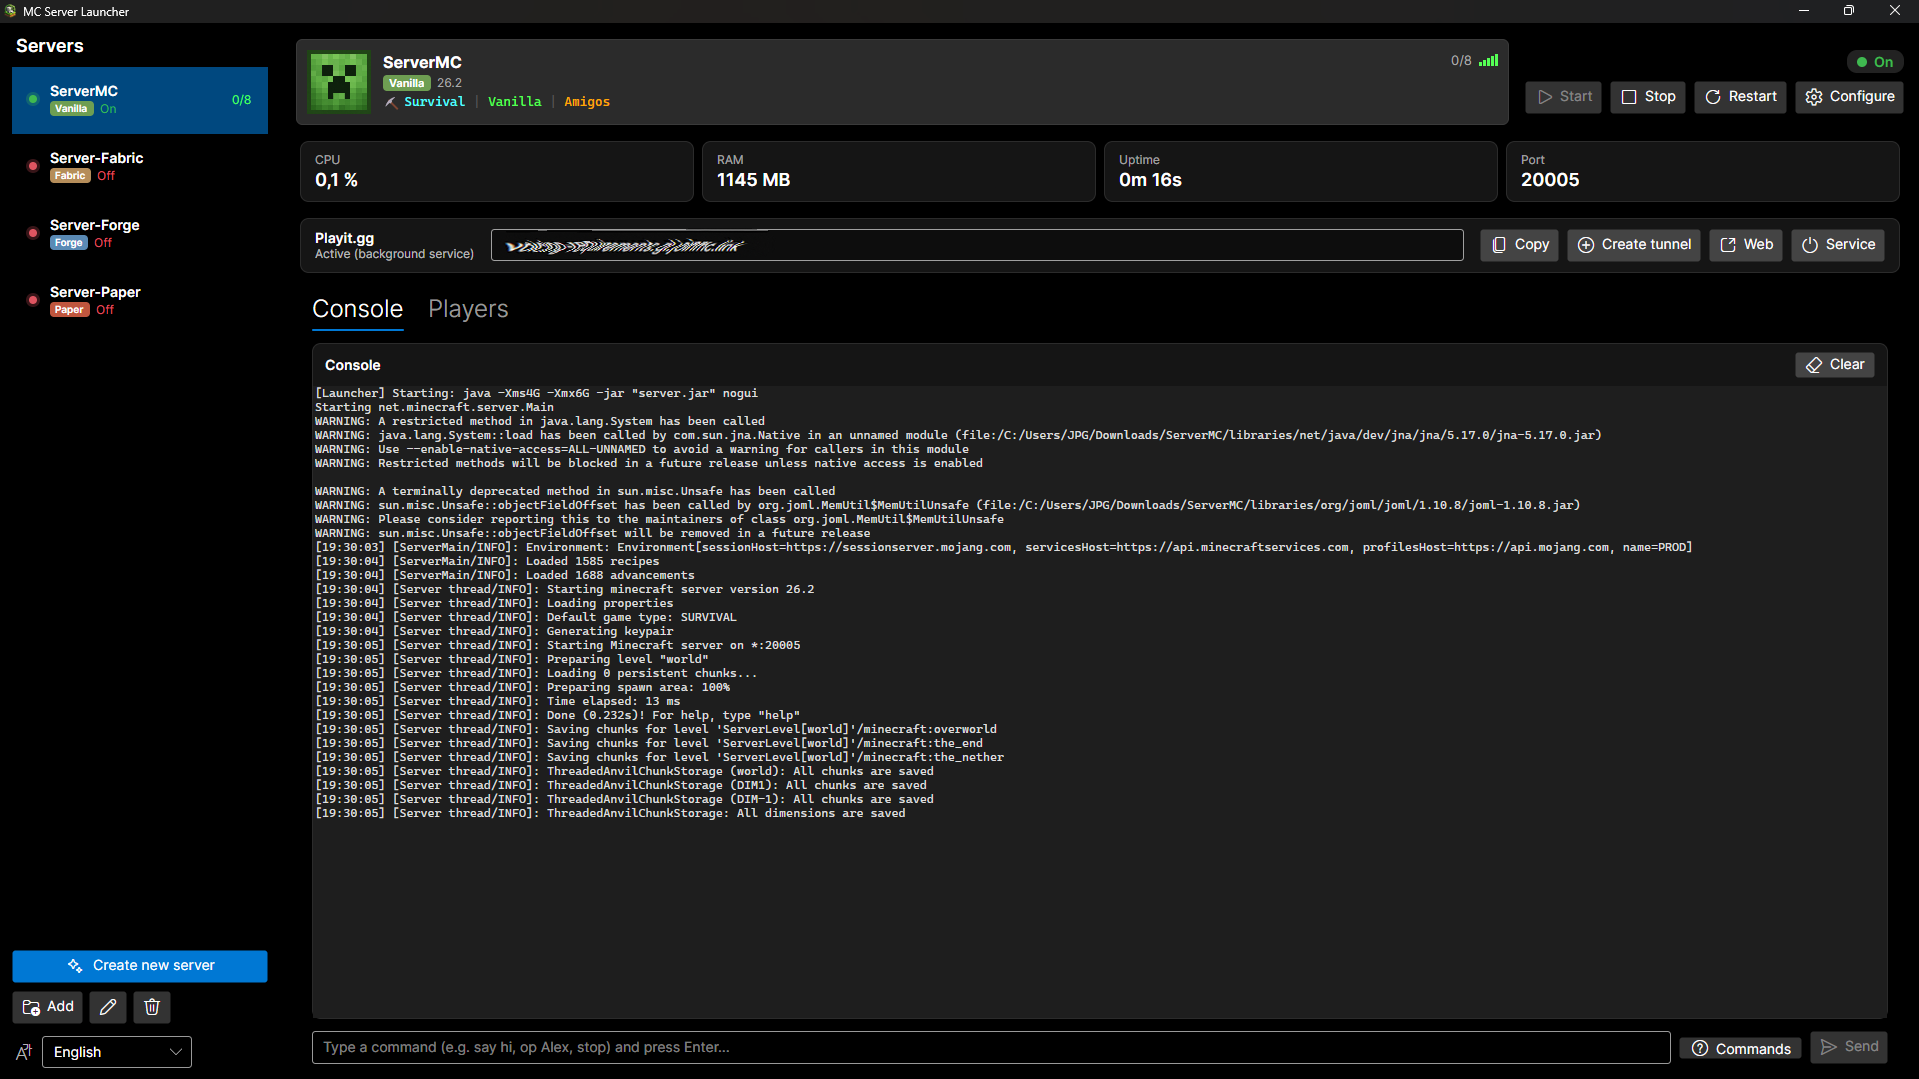
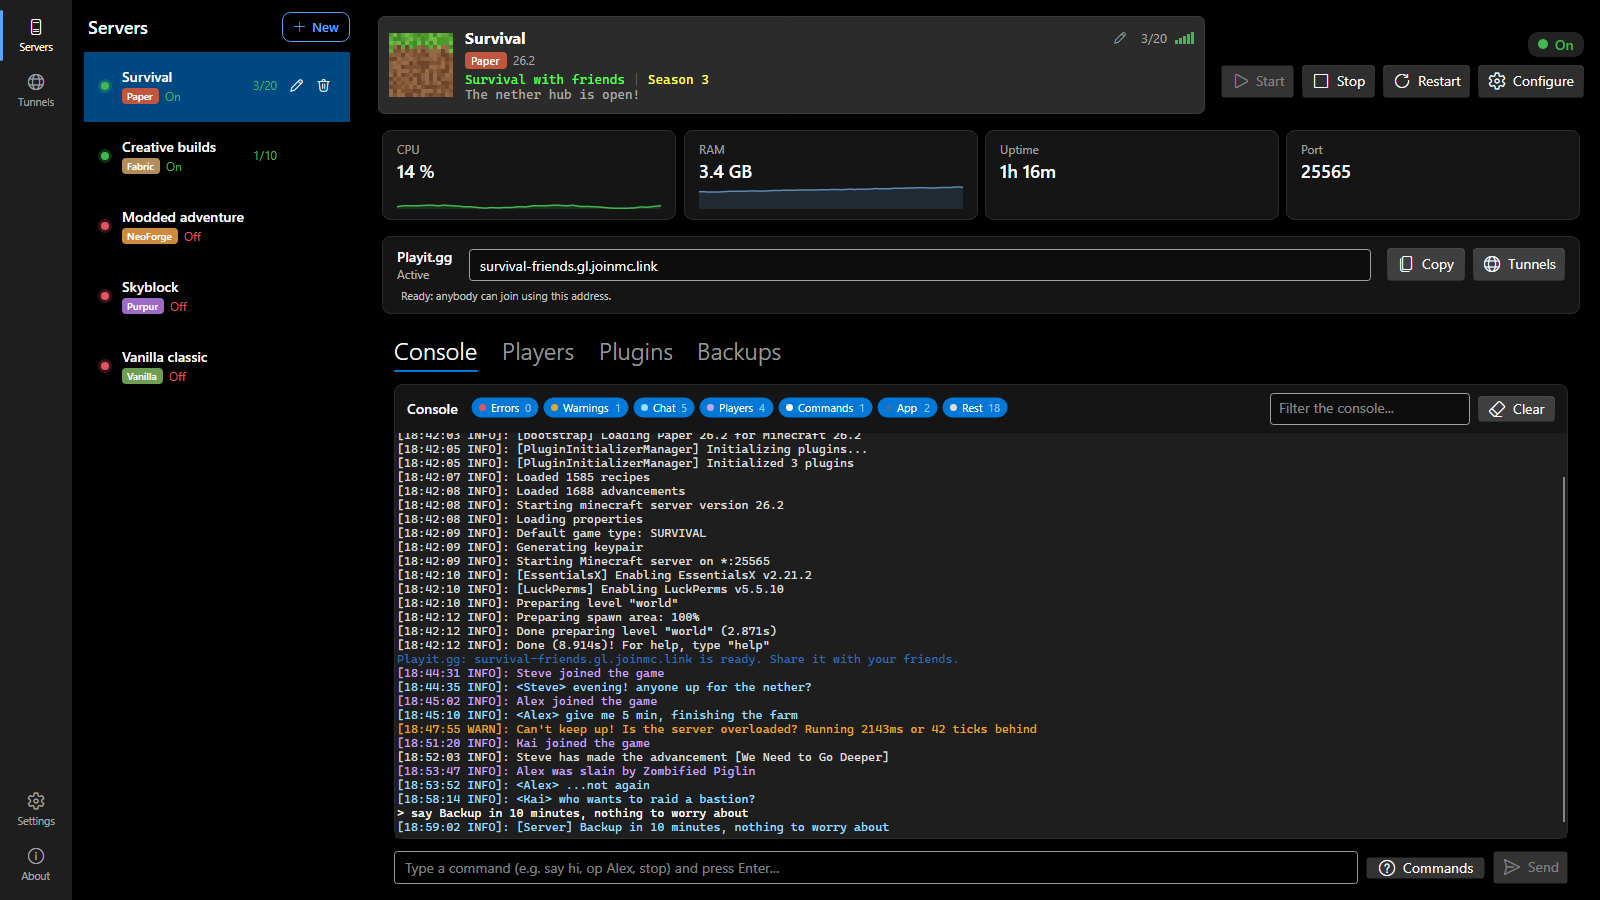
docs: capturas nuevas de la ventana y del panel de nuevo servidor
Las del README y la de la web eran de julio: botones que ya no existen
(«Crear servidor nuevo», «Añadir») y la consola sin colores. Hechas con
la app real en un arnés, con servidores y jugadores de demostración, y
en inglés como las anteriores.

- docs/screenshots/main.png y web/assets/app-screenshot.(png|jpg): la
  ventana con un servidor arrancado.
- docs/screenshots/new-server.png: el panel «Nuevo servidor», nuevo en
  los dos README.

diff --git a/README.es.md b/README.es.md
@@ -27,9 +27,13 @@ todo con botones.
 
 ## 📸 Un vistazo por dentro
 
-**Lista de servidores, consola en vivo y estadísticas — cada servidor etiquetado con su tipo**
+**El menú lateral, la lista de servidores con su tipo y uno arrancado: estadísticas en vivo, su dirección de Playit y la consola coloreada según lo que es cada línea**
 
 ![Vista principal](docs/screenshots/main.png)
+
+**Nuevo servidor, dentro de la ventana — todas las opciones de un servidor nuevo en una pantalla, a dos columnas**
+
+![Panel de nuevo servidor](docs/screenshots/new-server.png)
 
 **Buscador de mods y plugins — busca en Modrinth ya filtrado por el tipo y la versión de tu servidor**
 

diff --git a/README.md b/README.md
@@ -26,9 +26,13 @@ all with buttons.
 
 ## 📸 A look inside
 
-**Server list, live console and stats — each server tagged with its type**
+**The side rail, the server list with its type badges, and a running server: live stats, its Playit address and a console coloured by what each line is**
 
 ![Main view](docs/screenshots/main.png)
+
+**New server, inside the window — every option of a new server on one screen, in two columns**
+
+![New server panel](docs/screenshots/new-server.png)
 
 **Mods & plugins browser — searches Modrinth, already filtered by your server's type and version**
 
